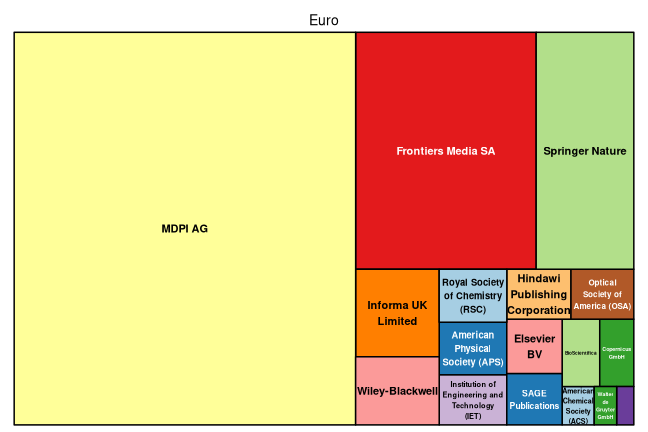
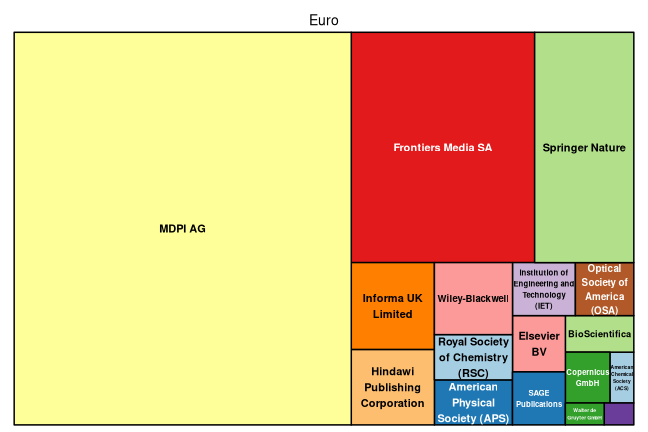
update: linz apc data 2021

Changed region(s): [[0.5247, 0.0602, 0.9877, 0.9931], [0.5864, 0.331, 0.7716, 0.3611], [0.2469, 0.5116, 0.3395, 0.5417]]

diff --git a/_posts/2022-01-14-linz.md b/_posts/2022-01-14-linz.md
@@ -22,7 +22,7 @@ Contact Person is [Susanne Luger](mailto:open-access@jku.at).
 
 
 
-The new data set covers publication fees for 65 articles, total expenditure amounts to 112,432€ and the average fee is 1,730€.
+The new data set covers publication fees for 66 articles, total expenditure amounts to 114,669€ and the average fee is 1,737€.
 
 The following table shows the payments the JKU library has made to publishers in 2021 (including taxes and discounts).
 
@@ -37,6 +37,7 @@ The following table shows the payments the JKU library has made to publishers in
 |BioScientifica                                         |        1|              1800|          1800|
 |Copernicus GmbH                                        |        1|               768|           768|
 |Elsevier BV                                            |        1|              2142|          2142|
+|Hindawi Publishing Corporation                         |        1|              2237|          2237|
 |Institution of Engineering and Technology (IET)        |        1|              2400|          2400|
 |International Association of Online Engineering (IAOE) |        1|               468|           468|
 |Walter de Gruyter GmbH                                 |        1|               612|           612|
